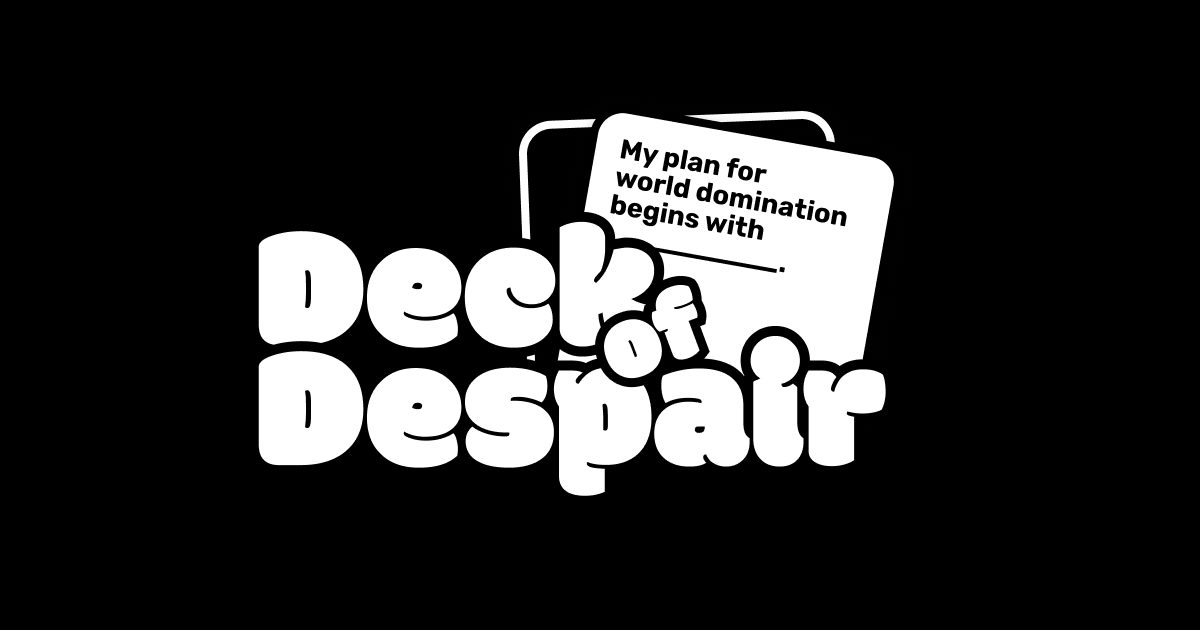
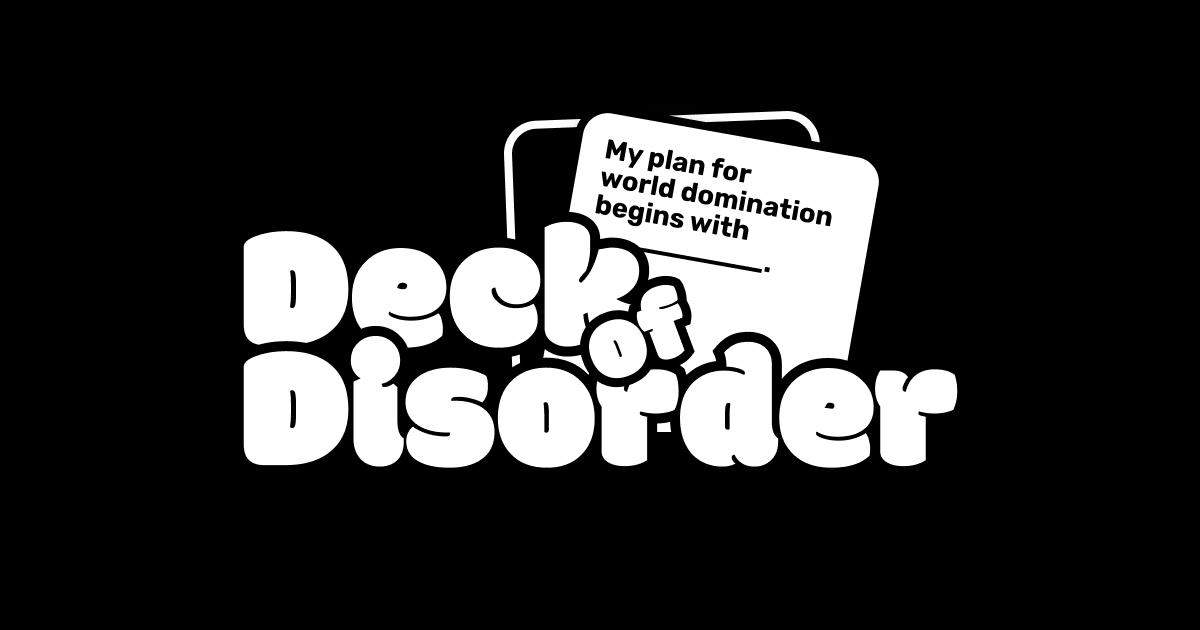
refactor: changing name (forgot the original name)

Changed region(s): [[0.185, 0.181, 0.8017, 0.7841], [0.6167, 0.4222, 0.6475, 0.4524]]

diff --git a/index.html b/index.html
@@ -6,19 +6,19 @@
     <meta name="viewport" content="width=device-width, initial-scale=1.0" />
 
     <!-- Primary Meta Tags -->
-    <title>Deck of Despair - Hilarious Party Card Game</title>
+    <title>Deck of Disorder - Hilarious Party Card Game</title>
     <meta
       name="description"
-      content="Play Deck of Despair, the outrageous party card game that will have everyone laughing. Similar to Cards Against Humanity but with a unique twist!" />
+      content="Play Deck of Disorder, the outrageous party card game that will have everyone laughing. Similar to Cards Against Humanity but with a unique twist!" />
     <meta
       name="keywords"
-      content="card game, adult party game, Deck of Despair, Cards Against Humanity alternative, funny card game, party game, adult humor" />
-    <meta name="author" content="Deck of Despair" />
+      content="card game, adult party game, Deck of Disorder, Cards Against Humanity alternative, funny card game, party game, adult humor" />
+    <meta name="author" content="Deck of Disorder" />
 
     <!-- Open Graph / Facebook -->
     <meta property="og:type" content="website" />
     <meta property="og:url" content="https://dod.miukyo.my.id/" />
-    <meta property="og:title" content="Deck of Despair - Hilarious Adult Party Card Game" />
+    <meta property="og:title" content="Deck of Disorder - Hilarious Adult Party Card Game" />
     <meta
       property="og:description"
       content="The party card game that will have your friends laughing all night. Make hilariously offensive combinations and compete for the most outrageous answers!" />
@@ -27,7 +27,7 @@
     <!-- Twitter -->
     <meta name="twitter:card" content="summary_large_image" />
     <meta name="twitter:url" content="https://dod.miukyo.my.id/" />
-    <meta name="twitter:title" content="Deck of Despair - Hilarious Adult Party Card Game" />
+    <meta name="twitter:title" content="Deck of Disorder - Hilarious Adult Party Card Game" />
     <meta
       name="twitter:description"
       content="The party card game that will have your friends laughing all night. Make hilariously offensive combinations and compete for the most outrageous answers!" />

diff --git a/src/components/prompt-card.tsx b/src/components/prompt-card.tsx
@@ -33,16 +33,23 @@ export default function PromptCard({ promptCard }: { promptCard: CardT }) {
   };
 
   // Determine text size based on content length
-  const textSizeClass = promptCard.text?.length > 100 ? "text-lg" : promptCard.text?.length > 50 ? "text-xl" : "text-2xl";
+  const textSizeClass =
+    promptCard.text?.length > 100
+      ? "text-lg"
+      : promptCard.text?.length > 50
+      ? "text-xl"
+      : "text-2xl";
 
   return (
     <Card
       type="prompt"
       animate={true}
-      header="Deck of Despair"
+      header="Deck of Disorder"
       footer={`Pick ${promptCard.minPick || 1}`}
       hoverEffect={false}>
-      <div className={textSizeClass + " font-bold text-center mt-8"}>{processText(promptCard.text)}</div>
+      <div className={textSizeClass + " font-bold text-center mt-8"}>
+        {processText(promptCard.text)}
+      </div>
     </Card>
   );
 }

diff --git a/src/components/welcome-screen.tsx b/src/components/welcome-screen.tsx
@@ -267,7 +267,10 @@ export default function WelcomeScreen() {
         initial={{ opacity: 0 }}
         animate={{ opacity: 1 }}
         transition={{ delay: 0.5 }}>
-        Give support to the project <a className="text-blue-500" href="https://github.com/miukyo/deckofdespair">here</a>
+        Give support to the project{" "}
+        <a className="text-blue-500" href="https://github.com/miukyo/deckofdisorder">
+          here
+        </a>
       </motion.div>
     </div>
   );

diff --git a/src/components/answer-card.tsx b/src/components/answer-card.tsx
@@ -30,7 +30,7 @@ export default function AnswerCard({
       disabled={isDisabled || isPlayed}
       animate={!isFlipped}
       hoverEffect={!isDisabled}
-      footer="Deck of Despair"
+      footer="Deck of Disorder"
       className={isPlayed && !isFlipped ? "opacity-0 transform -translate-y-20" : ""}>
       <div className={`font-bold w-full leading-none ${textSizeClass}`}>{text}</div>
     </Card>

diff --git a/README.md b/README.md
@@ -1,8 +1,8 @@
-<img src="https://github.com/miukyo/deckofdespair/blob/main/public/banner.jpg?raw=true" alt="Deck of Despair Logo"/>
+<img src="https://github.com/miukyo/deckofdisorder/blob/main/public/banner.jpg?raw=true" alt="Deck of Disorder Logo"/>
 
-# Deck of Despair
+# Deck of Disorder
 
-Deck of Despair is a hilarious and outrageous party card game inspired by Cards Against Humanity. This game is designed to bring laughter and fun to your gatherings with a unique twist that sets it apart from other party games.
+Deck of Disorder is a hilarious and outrageous party card game inspired by Cards Against Humanity. This game is designed to bring laughter and fun to your gatherings with a unique twist that sets it apart from other party games.
 
 ## Features
 - A web-based card game that you can play with friends.
@@ -24,7 +24,7 @@ Under the following terms:
 Special thanks to [https://crhallberg.com/cah/](https://crhallberg.com/cah/) for providing the card data used in this game.
 
 ## How to Play
-1. Visit the website: [Deck of Despair](https://dod.miukyo.my.id/).
+1. Visit the website: [Deck of Disorder](https://dod.miukyo.my.id/).
 2. Gather your friends and start playing.
 3. Create the funniest and most outrageous combinations to win!
 
@@ -37,4 +37,4 @@ If you enjoy the game and would like to support its development, consider buying
 
 
 ## Disclaimer
-Deck of Despair is intended for mature audiences and contains humor that may not be suitable for everyone. Play responsibly and have fun!
+Deck of Disorder is intended for mature audiences and contains humor that may not be suitable for everyone. Play responsibly and have fun!
